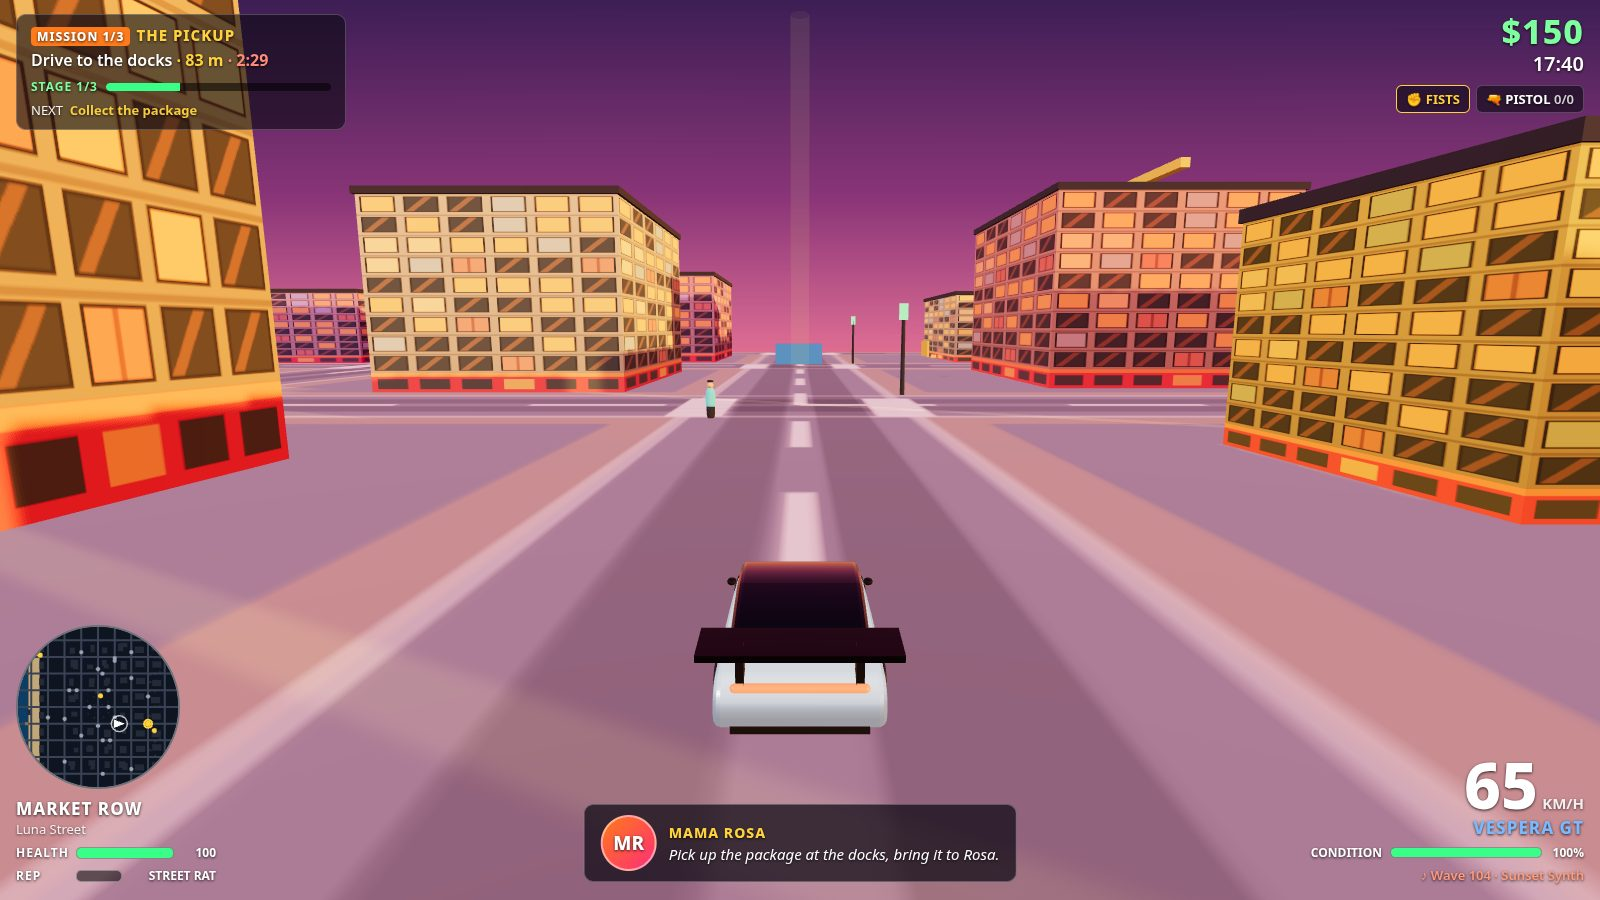
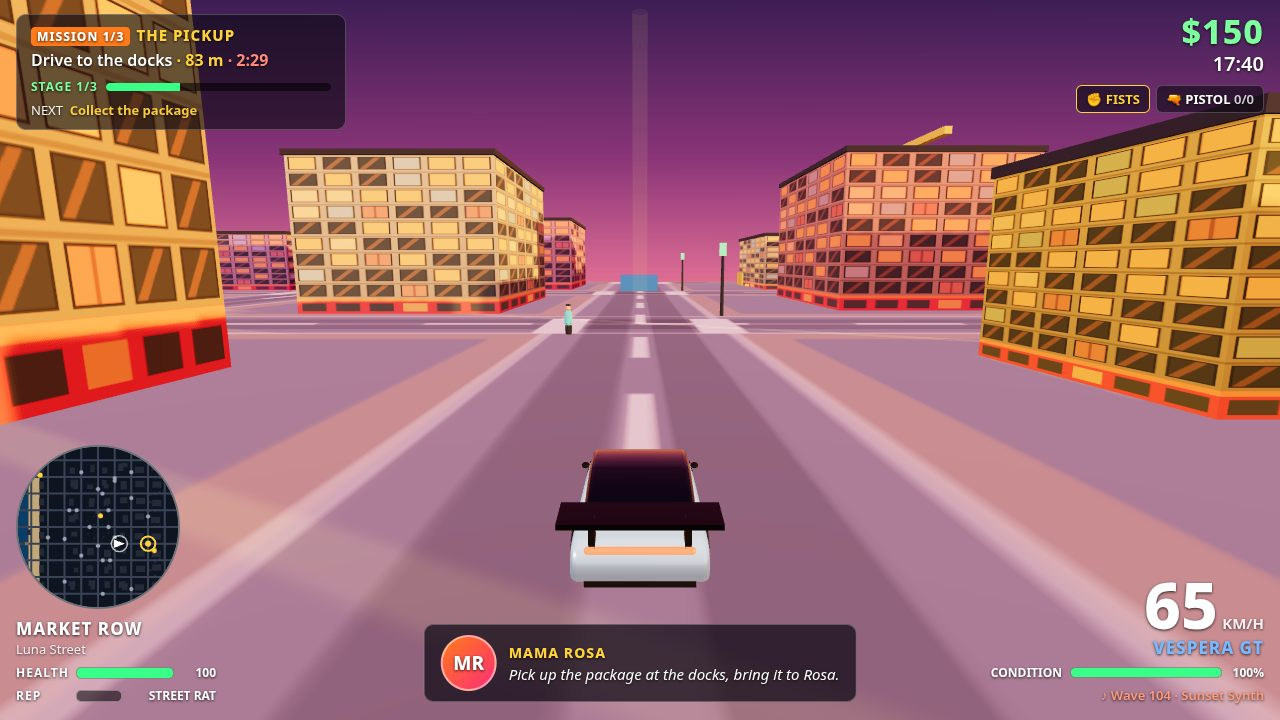
Resize semua screenshot ke 1280x720 (gate: long side <=1280)
- shots.py: viewport 1280x720, re-capture 2-title/3-onfoot/4-mission
- 1-hero.jpg: resize 1600x900 -> 1280x720 (isi sama, hanya skala)
- QA: selftest 91/91 PASS, shots PASS, playtest PASS

diff --git a/tests/shots.py b/tests/shots.py
@@ -1,8 +1,9 @@
 # Solmar Bay — retake the supporting screenshots (fast).
 # Run: ~/workspace/tools/pw-venv/bin/python tests/shots.py
 # Requires the static server: node serve.ts  (serves game/ on :8080)
-# Captures 2-title.jpg, 3-onfoot.jpg, 4-mission.jpg at 1600x900 JPEG q82
-# (HD); fails if a pageerror / console error appears, or if a shot exceeds
+# Captures 2-title.jpg, 3-onfoot.jpg, 4-mission.jpg at 1280x720 JPEG q82
+# (the kit gate: long side at most 1280, short side at least 480);
+# fails if a pageerror / console error appears, or if a shot exceeds
 # the 256 KiB dossier cap.
 # NOTE: 1-hero.jpg is NOT captured here — it is Romi's approved image and
 # must never be overwritten by this script.
@@ -29,7 +30,7 @@ async def main():
         browser = await p.chromium.launch(headless=True, args=[
             "--use-gl=angle", "--use-angle=swiftshader", "--enable-unsafe-swiftshader",
         ])
-        page = await browser.new_page(viewport={"width": 1600, "height": 900})
+        page = await browser.new_page(viewport={"width": 1280, "height": 720})
         page.on("pageerror", lambda e: errs.append(f"pageerror: {e}"))
         page.on("console", lambda m: errs.append(f"console.{m.type}: {m.text}") if m.type == "error" else None)
         ok = True
